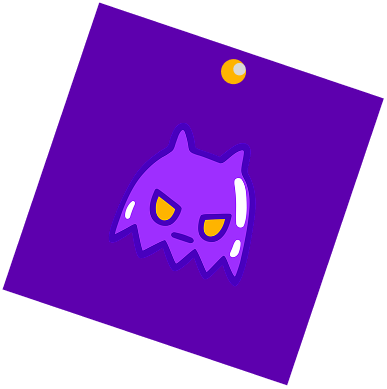
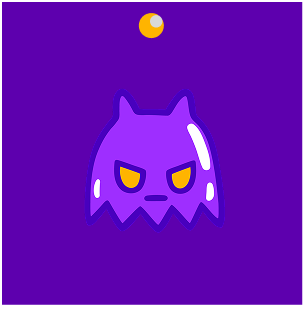
new things

diff --git a/src/Components/Aboutcomponents/AboutSection.jsx b/src/Components/Aboutcomponents/AboutSection.jsx
@@ -13,57 +13,57 @@ function AboutSection() {
   const imageRef2 = useRef(null);
   const sectionRef2 = useRef(null);
 
-  useEffect(() => {
-    // First section animation - VERY SLOW rotation
-    const image1 = imageRef1.current;
-    const section1 = sectionRef1.current;
+ useEffect(() => {
+  const img = imageRef1.current;
+  const section = sectionRef1.current;
+  if (!img || !section) return;
 
-    if (image1 && section1) {
-      const rotationAnimation1 = gsap.fromTo(image1, {
-        rotation: 0,
-      }, {
-        rotation: 100,
-        ease: "none",
-        scrollTrigger: {
-          trigger: section1,
-          start: "top 80%",
-          end: "bottom 20%", // Much longer duration
-          scrub: 5, // VERY SLOW scrub
-          // markers: true,
-        }
-      });
+  // ✅ START STRAIGHT
+  gsap.set(img, {
+    rotation: 0,
+    transformOrigin: "center center",
+  });
 
-      return () => {
-        rotationAnimation1.kill();
-      };
-    }
-  }, []);
+  // ✅ TILT ON SCROLL
+  const anim = gsap.to(img, {
+    rotation: 15, // 👈 natural PNG tilt
+    ease: "none",
+    scrollTrigger: {
+      trigger: section,
+      start: "top 75%",
+      end: "top 45%",
+      scrub: 1.2, // smooth + visible
+    },
+  });
 
-  useEffect(() => {
-    // Second section animation - VERY SLOW rotation
-    const image2 = imageRef2.current;
-    const section2 = sectionRef2.current;
+  return () => anim.kill();
+}, []);
 
-    if (image2 && section2) {
-      const rotationAnimation2 = gsap.fromTo(image2, {
-        rotation: 0,
-      }, {
-        rotation: -100,
-        ease: "none",
-        scrollTrigger: {
-          trigger: section2,
-          start: "top 80%",
-          end: "bottom 20%", // Much longer duration
-          scrub: 5, // VERY SLOW scrub
-          // markers: false,
-        }
-      });
+useEffect(() => {
+  const img = imageRef2.current;
+  const section = sectionRef2.current;
+  if (!img || !section) return;
 
-      return () => {
-        rotationAnimation2.kill();
-      };
-    }
-  }, []);
+  // ✅ START STRAIGHT
+  gsap.set(img, {
+    rotation: 0,
+    transformOrigin: "center center",
+  });
+
+  // ✅ TILT ON SCROLL (opposite direction)
+  const anim = gsap.to(img, {
+    rotation: -15,
+    ease: "none",
+    scrollTrigger: {
+      trigger: section,
+      start: "top 75%",
+      end: "top 45%",
+      scrub: 1.2,
+    },
+  });
+
+  return () => anim.kill();
+}, []);
 
   // Clean up all ScrollTriggers on component unmount
   useEffect(() => {

diff --git a/src/Components/Aboutcomponents/OurStory.jsx b/src/Components/Aboutcomponents/OurStory.jsx
@@ -1,13 +1,41 @@
+import { useEffect, useRef } from "react";
+import { gsap } from "gsap";
 import Image1 from "/src/assets/about/poky.png";
 
 function OurStory() {
+  const imageRef = useRef(null);
+
+useEffect(() => {
+  if (!imageRef.current) return;
+
+  // Start exactly at CSS position
+  gsap.set(imageRef.current, {
+    y: 0,
+  });
+
+  // Vertical up & down movement only
+  const anim = gsap.to(imageRef.current, {
+    y: -40,          // move UP (negative = up)
+    duration: 2.5,   // smooth speed
+    ease: "sine.inOut",
+    repeat: -1,
+    yoyo: true,      // go back DOWN
+  });
+
+  return () => anim.kill();
+}, []);
+
+
+
   return (
     <>
       <div className="w-full bg-black py-12 md:py-20 lg:py-0 lg:pb-16 px-4 md:px-8 lg:px-12 xl:px-0">
         <div className="max-w-7xl mx-auto flex flex-col-reverse lg:flex-row items-center justify-center gap-8 lg:gap-20 xl:gap-40 h-[600px] md:h-[700px] lg:h-[800px]">
+          
           {/* Image Section - Mobile first */}
           <div className="w-full lg:w-1/3 order-2 lg:order-1 xl:pt-40">
             <img
+              ref={imageRef}
               src={Image1}
               alt="Illustrator"
               className="w-[80%] md:w-[40%] lg:w-[90%] h-auto max-h-[400px] md:max-h-[500px] lg:max-h-[600px] object-contain lg:scale-150 mx-auto"
@@ -30,8 +58,7 @@ function OurStory() {
               could travel?" From that spark, EtThicks came to life. Not in a
               boardroom. Not from a brief. But where creativity meets
               obsession, where curiosity refuses to be silent. Eight directions.
-              Eight
-              paths. Eight ways a story can move. That's why we chose our name:
+              Eight paths. Eight ways a story can move. That's why we chose our name:
               Ettuthikkum. Because a story told well never stays in one place.
             </h2>
           </div>
